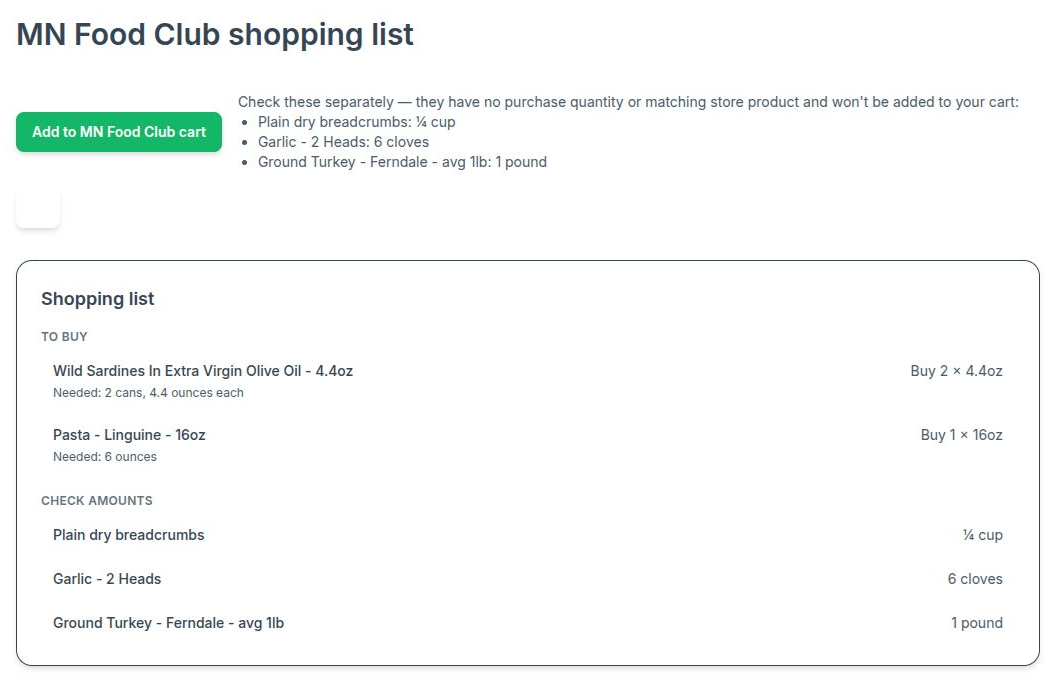
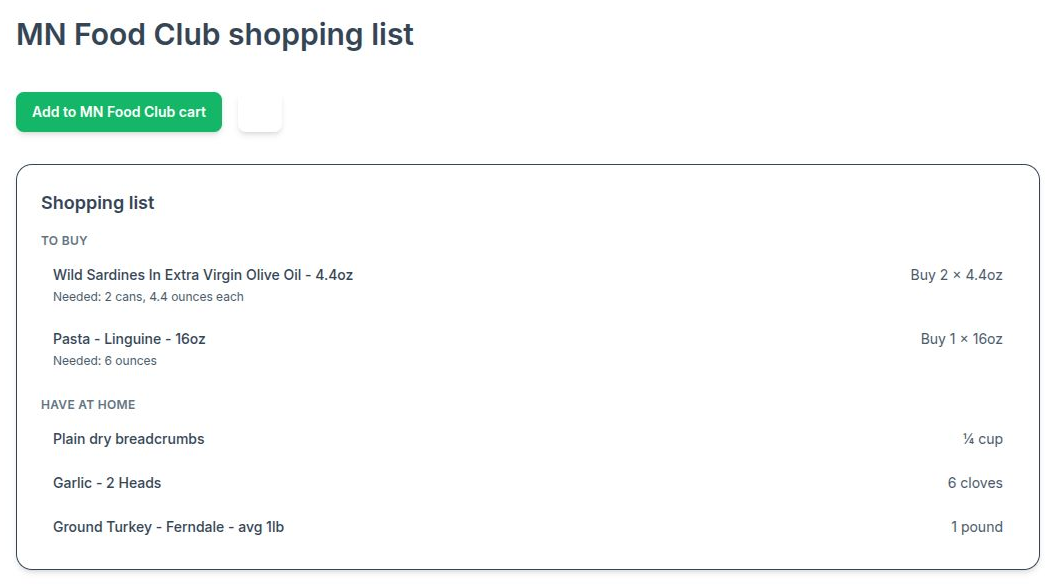
Keep ingredients without buy in home aisle and preserve zero package quantities

diff --git a/internal/templates/shoppinglist.html b/internal/templates/shoppinglist.html
@@ -395,12 +395,4 @@
   <button type="submit" class="inline-flex items-center justify-center rounded-lg bg-action-green-500 px-4 py-2.5 text-sm font-semibold text-white shadow-md hover:bg-action-green-600 focus:outline-none focus:ring-2 focus:ring-action-green-300">{{.TransferLabel}}</button>
 </form>
 {{end}}
-{{if .ManualShoppingItems}}
-<div class="text-sm text-ink-600">
-  <p>Check these separately — they have no purchase quantity or matching store product and won't be added to your cart:</p>
-  <ul class="list-disc pl-5">
-    {{range .ManualShoppingItems}}<li>{{.Name}}{{if .Needed}}: {{.Needed}}{{end}}</li>{{end}}
-  </ul>
-</div>
-{{end}}
 {{end}}

diff --git a/internal/recipes/mnfoodclub_order_test.go b/internal/recipes/mnfoodclub_order_test.go
@@ -25,7 +25,7 @@ import (
 	"golang.org/x/net/html"
 )
 
-func TestFoodClubCartSeparatesManualShopping(t *testing.T) {
+func TestFoodClubCartExcludesItemsWithoutBuy(t *testing.T) {
 	api := httptest.NewServer(mnfoodclubstub.New("https://test.careme.cooking/mnfoodclub-stub"))
 	t.Cleanup(api.Close)
 	client, err := mnfoodclub.NewOrderClient(config.MNFoodClubConfig{OrderAPIURL: api.URL + "/mnfoodclub-stub", OrderAccessToken: "caremetest-mnfoodclub-stub"}, api.Client())
@@ -42,8 +42,9 @@ func TestFoodClubCartSeparatesManualShopping(t *testing.T) {
 	require.NoError(t, s.populateOrderView(httptest.NewRequest(http.MethodGet, "/recipes?h=list", nil), &view))
 	var body bytes.Buffer
 	require.NoError(t, templates.ShoppingList.ExecuteTemplate(&body, "shopping_order_form", view.Order))
-	assert.Contains(t, body.String(), "Check these separately")
-	assert.Contains(t, body.String(), "Plain dry breadcrumbs &amp; herbs: ¼ cup")
+	require.NoError(t, templates.ShoppingList.ExecuteTemplate(&body, "shopping_purchase_section", view))
+	assert.Contains(t, body.String(), "Plain dry breadcrumbs &amp; herbs")
+	assert.Contains(t, body.String(), "¼ cup")
 	form := url.Values{}
 	tokenizer := html.NewTokenizer(strings.NewReader(body.String()))
 	for tokenType := tokenizer.Next(); tokenType != html.ErrorToken; tokenType = tokenizer.Next() {
@@ -72,13 +73,16 @@ func TestFoodClubCartSeparatesManualShopping(t *testing.T) {
 	assert.NotEmpty(t, view.Order.ReviewCartURL)
 	body.Reset()
 	require.NoError(t, templates.ShoppingList.ExecuteTemplate(&body, "shopping_order_form", view.Order))
+	require.NoError(t, templates.ShoppingList.ExecuteTemplate(&body, "shopping_purchase_section", view))
 	assert.Contains(t, body.String(), "Review cart")
-	assert.Contains(t, body.String(), "Plain dry breadcrumbs &amp; herbs: ¼ cup")
+	assert.Contains(t, body.String(), "Plain dry breadcrumbs &amp; herbs")
+	assert.Contains(t, body.String(), "¼ cup")
 	assert.NotContains(t, body.String(), "<form")
-	assert.Contains(t, body.String(), "Garlic: 6 cloves")
+	assert.Contains(t, body.String(), "Garlic")
+	assert.Contains(t, body.String(), "6 cloves")
 }
 
-func TestOrderViewOnlyManualShoppingHasNoTransferForm(t *testing.T) {
+func TestOrderViewOnlyItemsWithoutBuyHasNoTransferForm(t *testing.T) {
 	for _, productID := range []string{"", "  "} {
 		t.Run(productID, func(t *testing.T) {
 			s := newTestServer(t)
@@ -90,7 +94,9 @@ func TestOrderViewOnlyManualShoppingHasNoTransferForm(t *testing.T) {
 			require.NoError(t, s.populateOrderView(httptest.NewRequest(http.MethodGet, "/recipes", nil), &view))
 			var body bytes.Buffer
 			require.NoError(t, templates.ShoppingList.ExecuteTemplate(&body, "shopping_order_form", view.Order))
-			assert.Contains(t, body.String(), "Breadcrumbs: ¼ cup")
+			require.NoError(t, templates.ShoppingList.ExecuteTemplate(&body, "shopping_purchase_section", view))
+			assert.Contains(t, body.String(), "Breadcrumbs")
+			assert.Contains(t, body.String(), "¼ cup")
 			assert.NotContains(t, body.String(), "<form")
 		})
 	}

diff --git a/internal/providers/kroger/order_quantity_test.go b/internal/providers/kroger/order_quantity_test.go
@@ -2,6 +2,7 @@ package kroger
 
 import (
 	"encoding/json"
+	"fmt"
 	"math"
 	"net/http"
 	"testing"
@@ -20,7 +21,6 @@ func TestKrogerOrderPackageQuantities(t *testing.T) {
 		buy             *float64
 		quantity        int
 	}{
-		{name: "default", productID: "food", quantity: 1},
 		{name: "whole packages", productID: "food", buy: new(float64(3)), quantity: 3},
 		{name: "fraction of package", productID: "food", buy: new(float64(0.5)), quantity: 1},
 		{name: "round up", productID: "food", buy: new(float64(2.2)), quantity: 3},
@@ -68,5 +68,36 @@ func TestKrogerInvalidPackageQuantityDefaultsToOne(t *testing.T) {
 		assert.Equal(t, 1, calls)
 		assert.Equal(t, ordertypes.TransferApplied, result.Status)
 		assert.Equal(t, []ordertypes.TransferItem{{ProductID: "food", Name: "Milk", AcceptedQuantity: 1}}, result.Items)
+	}
+}
+
+func TestKrogerOrderExcludesItemsWithoutBuy(t *testing.T) {
+	for _, withPurchase := range []bool{false, true} {
+		t.Run(fmt.Sprint(withPurchase), func(t *testing.T) {
+			calls := 0
+			a := orderFixture(t, func(r *http.Request) (*http.Response, error) {
+				calls++
+				var payload struct {
+					Items []cartItem `json:"items"`
+				}
+				require.NoError(t, json.NewDecoder(r.Body).Decode(&payload))
+				assert.Equal(t, []cartItem{{UPC: "food-upc", Quantity: 2}}, payload.Items)
+				return cartResponse(http.StatusNoContent, ""), nil
+			})
+			input := mustOrderRequest(t)
+			input.Items = []ai.ShoppingItem{{ProductID: "garlic", Name: "Garlic"}}
+			if withPurchase {
+				input.Items = append(input.Items, ai.ShoppingItem{ProductID: "food", VariantID: "food-upc", Buy: new(float64(2))})
+			}
+			result, err := a.order(t.Context(), "list", input, cartToken{AccessToken: "shopper"})
+			if withPurchase {
+				require.NoError(t, err)
+				assert.Equal(t, 1, calls)
+				assert.Equal(t, []ordertypes.TransferItem{{ProductID: "food", AcceptedQuantity: 2}}, result.Items)
+			} else {
+				require.ErrorContains(t, err, "no purchase quantities")
+				assert.Zero(t, calls)
+			}
+		})
 	}
 }

diff --git a/internal/providers/mnfoodclub/order_test.go b/internal/providers/mnfoodclub/order_test.go
@@ -35,7 +35,7 @@ func newOrderTest(t *testing.T, api http.HandlerFunc) (*orderHandler, *orderClie
 func orderInput() ordertypes.TransferRequest {
 	return ordertypes.TransferRequest{
 		Location: locationtypes.Location{ID: TCFarmLocationID, Chain: "TC Farm"}, ReturnURL: "/recipes?h=list",
-		Items: []ai.ShoppingItem{{ProductID: "101", VariantID: "1005", Name: "Chicken", Buy: new(float64(3))}, {ProductID: "202", Name: "Eggs"}},
+		Items: []ai.ShoppingItem{{ProductID: "101", VariantID: "1005", Name: "Chicken", Buy: new(float64(3))}, {ProductID: "202", Name: "Eggs", Buy: new(float64(1))}},
 	}
 }
 
@@ -335,4 +335,32 @@ func TestOrderOptionalZIPHint(t *testing.T) {
 			assert.Equal(t, http.StatusSeeOther, postTransfer(t, h, posted).Code)
 		})
 	}
+}
+
+func TestOrderExcludesItemsWithoutBuy(t *testing.T) {
+	var calls int
+	h, _, _ := newOrderTest(t, func(w http.ResponseWriter, r *http.Request) {
+		calls++
+		var request handoffRequest
+		require.NoError(t, json.NewDecoder(r.Body).Decode(&request))
+		assert.Equal(t, []requestedItem{{ProductID: "101", VariantID: "1005", Quantity: 3}, {ProductID: "202", Quantity: 1}}, request.Items)
+		_, _ = w.Write([]byte(appliedResult))
+	})
+	input := orderInput()
+	input.Items = append(input.Items, ai.ShoppingItem{ProductID: "garlic", Name: "Garlic"})
+	assert.Equal(t, http.StatusSeeOther, postTransfer(t, h, input).Code)
+	assert.Equal(t, 1, calls)
+}
+
+func TestOrderWithoutBuyDoesNotContactPartner(t *testing.T) {
+	h, _, c := newOrderTest(t, func(w http.ResponseWriter, r *http.Request) {
+		t.Error("items without buy must not contact the partner")
+	})
+	input := orderInput()
+	for i := range input.Items {
+		input.Items[i].Buy = nil
+	}
+	assert.Equal(t, http.StatusBadRequest, postTransfer(t, h, input).Code)
+	_, err := loadOrderTransfer(t.Context(), c, "mock-clerk-user-id", "list")
+	assert.ErrorIs(t, err, cache.ErrNotFound)
 }

diff --git a/internal/recipes/shoppinglist_display_test.go b/internal/recipes/shoppinglist_display_test.go
@@ -22,12 +22,12 @@ func TestShoppingViewSeparatesItemsWithoutBuyInSavedGroups(t *testing.T) {
 	p := DefaultParams(&locations.Location{ID: "mnfoodclub_delivery"}, time.Now())
 	view, err := newShoppingListPageView(t.Context(), shoppingListViewInput{params: p, purchases: groups})
 	require.NoError(t, err)
-	assert.Equal(t, []shoppingPurchaseGroup{{Aisle: "To buy", Items: []shoppingPurchaseItem{sardines}}, {Aisle: "Produce", Items: []shoppingPurchaseItem{onions}}, {Aisle: "Check amounts", Items: []shoppingPurchaseItem{garlic, breadcrumbs}}}, view.Purchases)
+	assert.Equal(t, []shoppingPurchaseGroup{{Aisle: "To buy", Items: []shoppingPurchaseItem{sardines}}, {Aisle: "Produce", Items: []shoppingPurchaseItem{onions}}, {Aisle: "Have at home", Items: []shoppingPurchaseItem{garlic, breadcrumbs}}}, view.Purchases)
 	assert.Len(t, groups[0].Items, 3, "saved groups must remain unchanged")
 	var body bytes.Buffer
 	require.NoError(t, templates.ShoppingList.ExecuteTemplate(&body, "shopping_purchase_section", view))
 	assert.Contains(t, body.String(), ">To buy</h3>")
-	assert.Contains(t, body.String(), ">Check amounts</h3>")
+	assert.Contains(t, body.String(), ">Have at home</h3>")
 	assert.Contains(t, body.String(), "6 cloves")
 	assert.Contains(t, body.String(), "¼ cup")
 	assert.NotContains(t, body.String(), "Other items")

diff --git a/internal/providers/mnfoodclub/order.go b/internal/providers/mnfoodclub/order.go
@@ -130,6 +130,10 @@ func (h *orderHandler) handleOrder(w http.ResponseWriter, r *http.Request) {
 		return
 	}
 	request := orderItems(input)
+	if len(request.Items) == 0 {
+		http.Error(w, "MN Food Club transfer has no purchase quantities.", http.StatusBadRequest)
+		return
+	}
 	email, err := h.auth.GetUserEmail(r.Context(), userID)
 	if err != nil {
 		http.Error(w, "Unable to load your email for MN Food Club.", http.StatusInternalServerError)
@@ -173,9 +177,11 @@ func validOrderForm(key string, input ordertypes.TransferRequest) bool {
 }
 
 func orderItems(input ordertypes.TransferRequest) handoffRequest {
-	request := handoffRequest{Items: make([]requestedItem, len(input.Items)), IdentityHints: identityHints{ZipCode: input.ZipCode}}
-	for i, item := range input.Items {
-		request.Items[i] = requestedItem{ProductID: item.ProductID, VariantID: item.VariantID, Quantity: item.PackageQuantity()}
+	request := handoffRequest{IdentityHints: identityHints{ZipCode: input.ZipCode}}
+	for _, item := range input.Items {
+		if quantity := item.PackageQuantity(); quantity > 0 {
+			request.Items = append(request.Items, requestedItem{ProductID: item.ProductID, VariantID: item.VariantID, Quantity: quantity})
+		}
 	}
 	return request
 }

diff --git a/internal/providers/kroger/order.go b/internal/providers/kroger/order.go
@@ -76,17 +76,23 @@ func (a *OrderHandler) order(ctx context.Context, idempotencyKey string, input o
 	var items []cartItem
 	var accepted []ordertypes.TransferItem
 	for _, item := range input.Items {
+		quantity := item.PackageQuantity()
+		if quantity == 0 {
+			continue
+		}
 		if strings.TrimSpace(item.ProductID) == "" {
 			return transfer, fmt.Errorf("kroger order item %q: missing product ID", item.Name)
 		}
 		if strings.TrimSpace(item.VariantID) == "" {
 			return transfer, fmt.Errorf("kroger order product %q: missing selected item UPC; rebuild the shopping list with a refreshed catalog", item.ProductID)
 		}
-		quantity := item.PackageQuantity()
 		result := ordertypes.TransferItem{ProductID: item.ProductID, Name: item.Name}
 		items = append(items, cartItem{UPC: item.VariantID, Quantity: quantity})
 		result.AcceptedQuantity = quantity
 		accepted = append(accepted, result)
+	}
+	if len(items) == 0 {
+		return transfer, fmt.Errorf("kroger order has no purchase quantities")
 	}
 	if err := a.client.add(ctx, token.AccessToken, items); err != nil {
 		return transfer, fmt.Errorf("add Kroger cart products: %w", err)

diff --git a/internal/providerregistry/mnfoodclub_order_test.go b/internal/providerregistry/mnfoodclub_order_test.go
@@ -49,7 +49,7 @@ func TestFoodClubOrderingForAllStorefronts(t *testing.T) {
 		t.Run(id, func(t *testing.T) {
 			location, err := mnfoodclub.NewLocationBackend().GetLocationByID(t.Context(), id)
 			require.NoError(t, err)
-			input := ordertypes.OrderViewInput{UserID: "mock-clerk-user-id", ListKey: id, Location: *location, ZipCode: "00501", Items: []ai.ShoppingItem{{ProductID: "101", VariantID: "variant-1005", Name: "Chicken"}}, ReturnURL: "/recipes?h=" + id}
+			input := ordertypes.OrderViewInput{UserID: "mock-clerk-user-id", ListKey: id, Location: *location, ZipCode: "00501", Items: []ai.ShoppingItem{{ProductID: "101", VariantID: "variant-1005", Name: "Chicken", Buy: new(float64(1))}}, ReturnURL: "/recipes?h=" + id}
 			builder := factory.NewOrderViewBuilder(options.Cache)
 			view, err := builder.OrderView(t.Context(), input)
 			require.NoError(t, err)

diff --git a/internal/providers/kroger/order_test.go b/internal/providers/kroger/order_test.go
@@ -21,7 +21,7 @@ import (
 )
 
 func orderForm() url.Values {
-	return url.Values{"idempotency_key": {"list-hash"}, "transfer_request": {`{"location":{"id":"70500874","name":"QFC","chain":"QFC"},"return_url":"/recipes?h=list-hash#shopping-list-section","items":[{"id":"food","variant_id":"food-upc","name":"Milk","needed":"2 cups","buy":2},{"id":"wine","variant_id":"wine-upc","name":"Red wine","needed":"1 bottle"}]}`}}
+	return url.Values{"idempotency_key": {"list-hash"}, "transfer_request": {`{"location":{"id":"70500874","name":"QFC","chain":"QFC"},"return_url":"/recipes?h=list-hash#shopping-list-section","items":[{"id":"food","variant_id":"food-upc","name":"Milk","needed":"2 cups","buy":2},{"id":"wine","variant_id":"wine-upc","name":"Red wine","needed":"1 bottle","buy":1}]}`}}
 }
 
 func setOrderField(t *testing.T, form url.Values, field string, value any) {

diff --git a/internal/recipes/order_view.go b/internal/recipes/order_view.go
@@ -19,11 +19,9 @@ type orderViewBuilder interface {
 
 func (s *server) populateOrderView(r *http.Request, view *shoppingListPageView) error {
 	var items []ai.ShoppingItem
-	var manualItems []ai.ShoppingItem
 	for _, group := range view.Purchases {
 		for _, item := range group.Items {
 			if item.Buy == nil || strings.TrimSpace(item.ProductID) == "" {
-				manualItems = append(manualItems, item.ShoppingItem)
 				continue
 			}
 			items = append(items, item.ShoppingItem)
@@ -42,11 +40,8 @@ func (s *server) populateOrderView(r *http.Request, view *shoppingListPageView) 
 	if err != nil {
 		return err
 	}
-	if order != nil {
-		order.ManualShoppingItems = manualItems
-		if len(items) == 0 {
-			order.TransferURL = ""
-		}
+	if order != nil && len(items) == 0 {
+		order.TransferURL = ""
 	}
 	view.Order = order
 	return nil

diff --git a/internal/providers/mockorder/order.go b/internal/providers/mockorder/order.go
@@ -101,10 +101,13 @@ func (h *handler) transfer(w http.ResponseWriter, r *http.Request) {
 		return
 	}
 	if _, err := readTransfer(r.Context(), h.cache, userID, id); errors.Is(err, cache.ErrNotFound) {
-		// The mock accepts every shopping item without external product matching.
+		// The mock accepts purchase quantities without external product matching.
 		transfer := ordertypes.Transfer{TransferID: id, Status: ordertypes.TransferApplied, CartURL: transferURL + "/" + url.PathEscape(id)}
 		for _, item := range input.Items {
 			quantity := item.PackageQuantity()
+			if quantity == 0 {
+				continue
+			}
 			transfer.Items = append(transfer.Items, ordertypes.TransferItem{ProductID: item.ProductID, Name: item.Name, AcceptedQuantity: quantity})
 		}
 		body, err := json.Marshal(transfer)

diff --git a/internal/providers/mockorder/order_test.go b/internal/providers/mockorder/order_test.go
@@ -43,7 +43,7 @@ func TestTransferPersistsAndReusesResult(t *testing.T) {
 	transfer, err := readTransfer(t.Context(), c, input.UserID, input.ListKey)
 	require.NoError(t, err)
 	assert.Equal(t, ordertypes.TransferApplied, transfer.Status)
-	assert.Equal(t, []ordertypes.TransferItem{{Name: "Milk", AcceptedQuantity: 3}, {Name: "Bread", AcceptedQuantity: 1}, {Name: "Eggs", AcceptedQuantity: 1}}, transfer.Items)
+	assert.Equal(t, []ordertypes.TransferItem{{Name: "Milk", AcceptedQuantity: 3}, {Name: "Eggs", AcceptedQuantity: 1}}, transfer.Items)
 	view, err = OrderView(t.Context(), c, input)
 	require.NoError(t, err)
 	assert.Equal(t, transfer.CartURL, view.ReviewCartURL)
